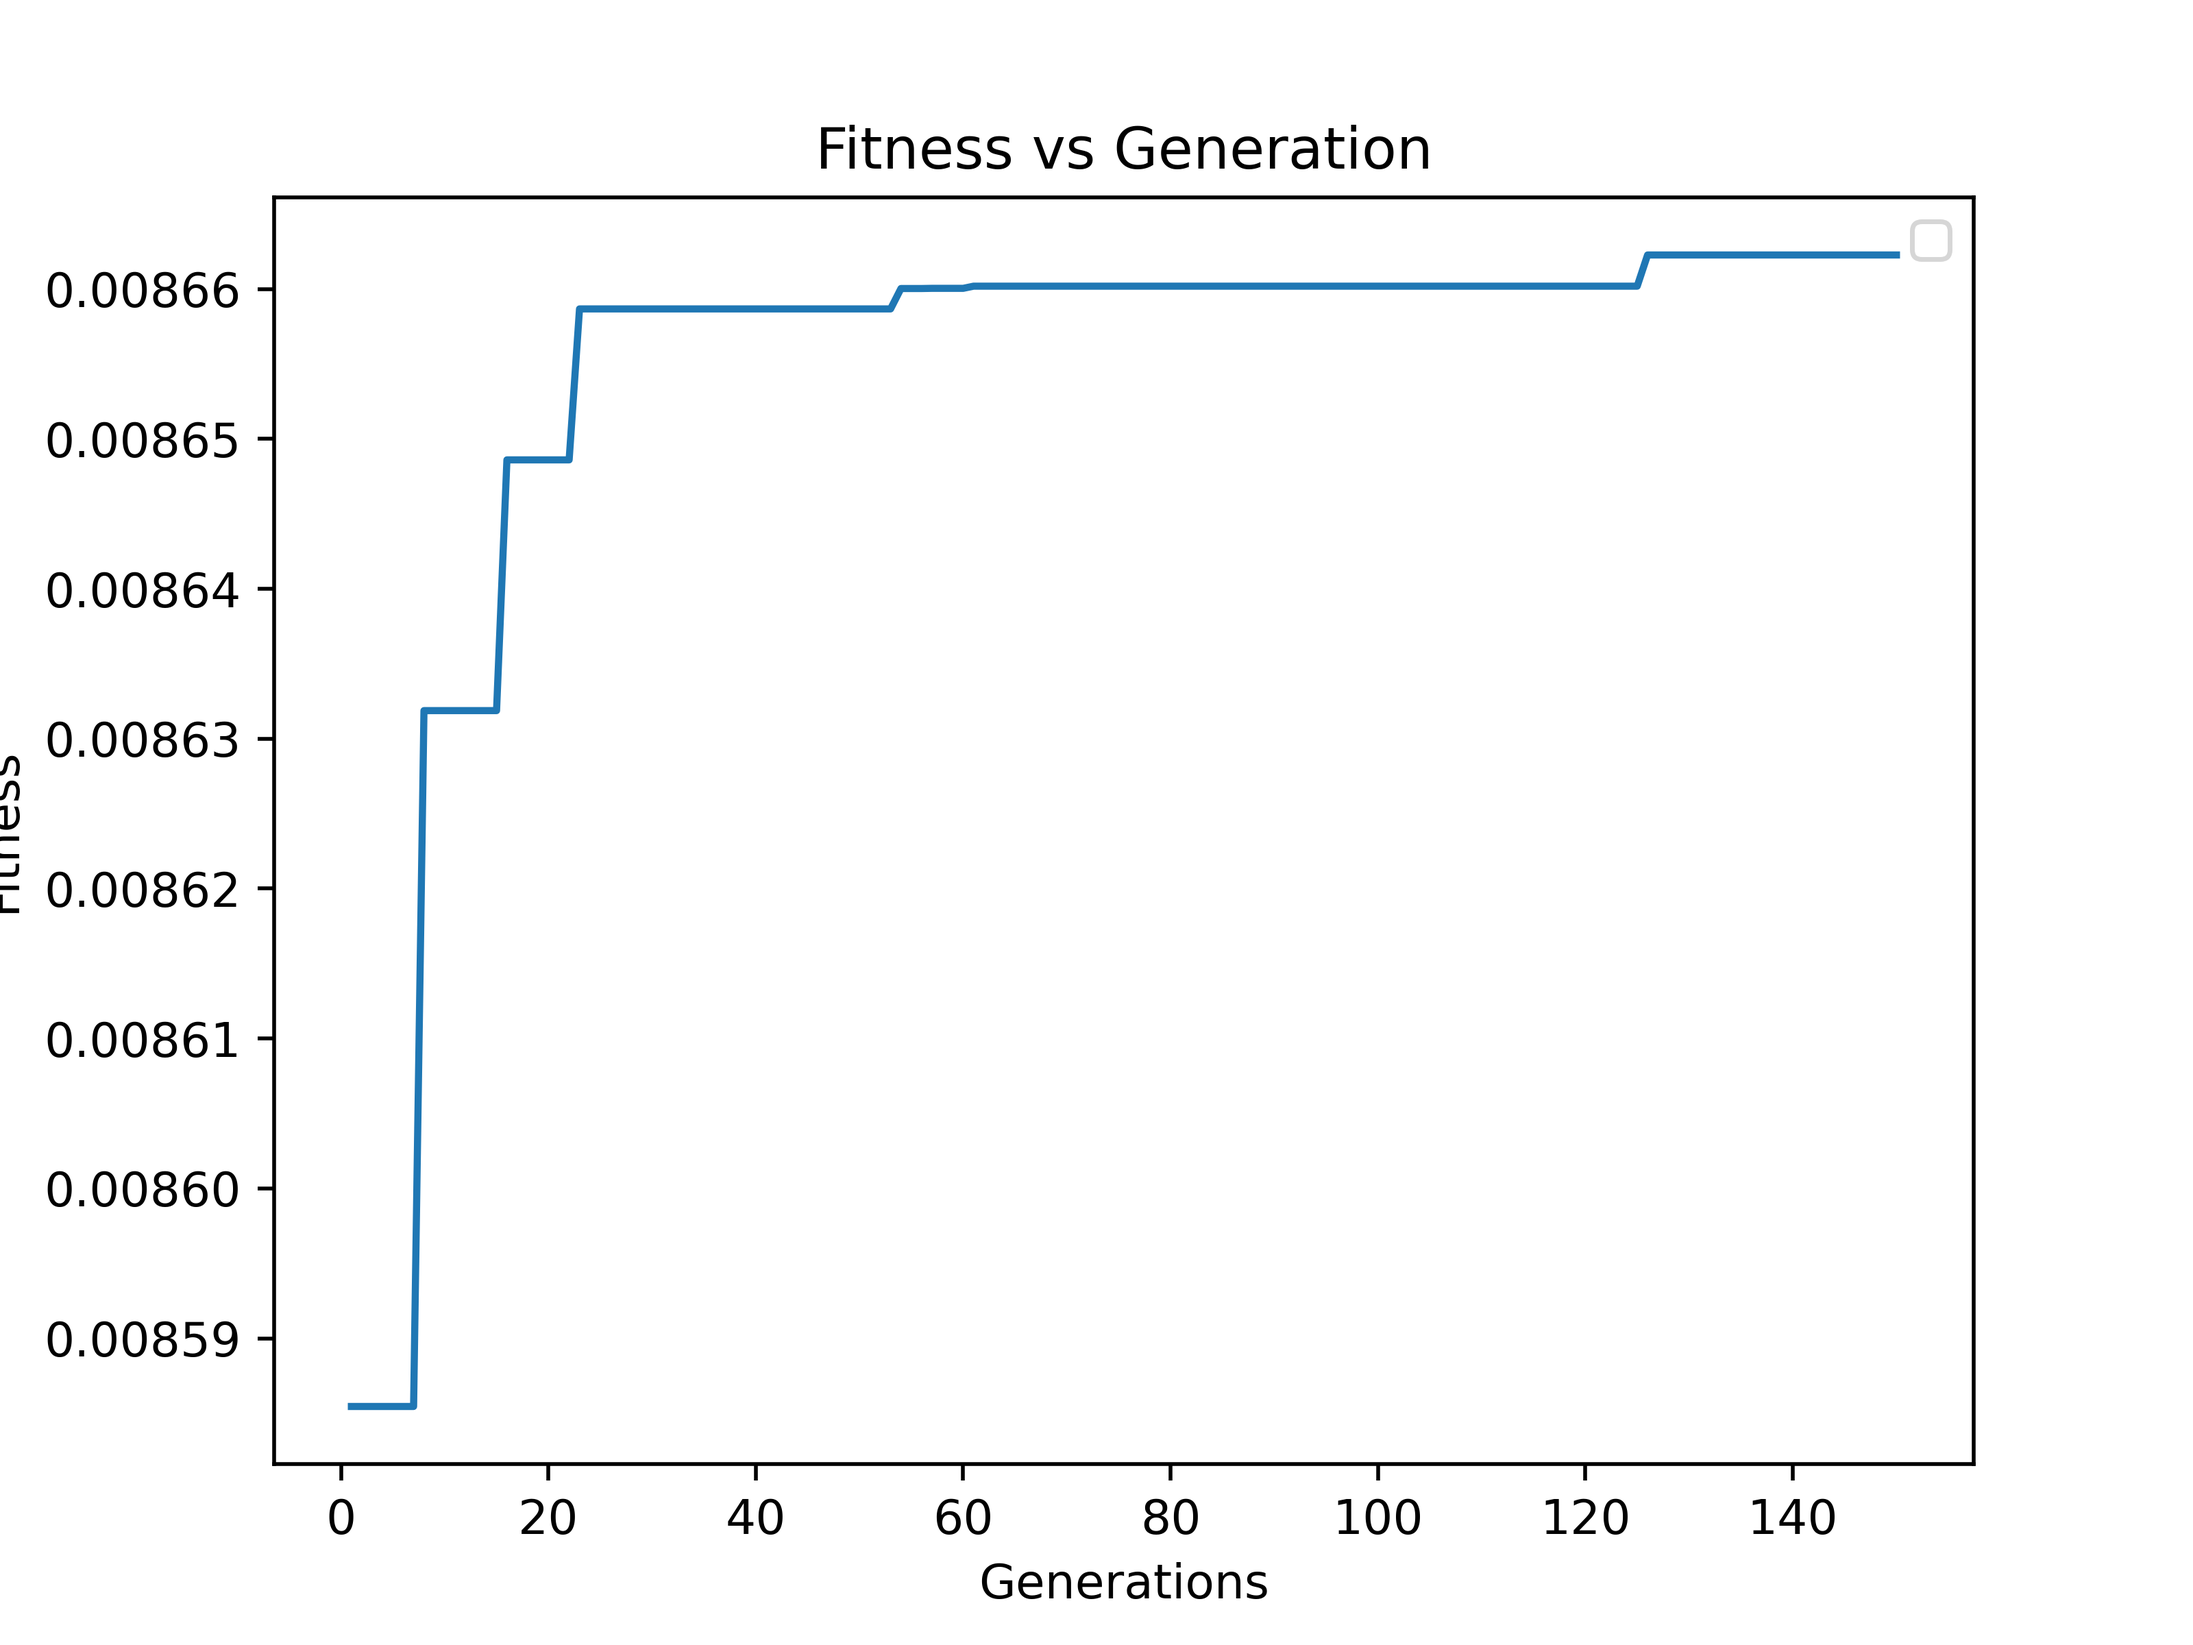
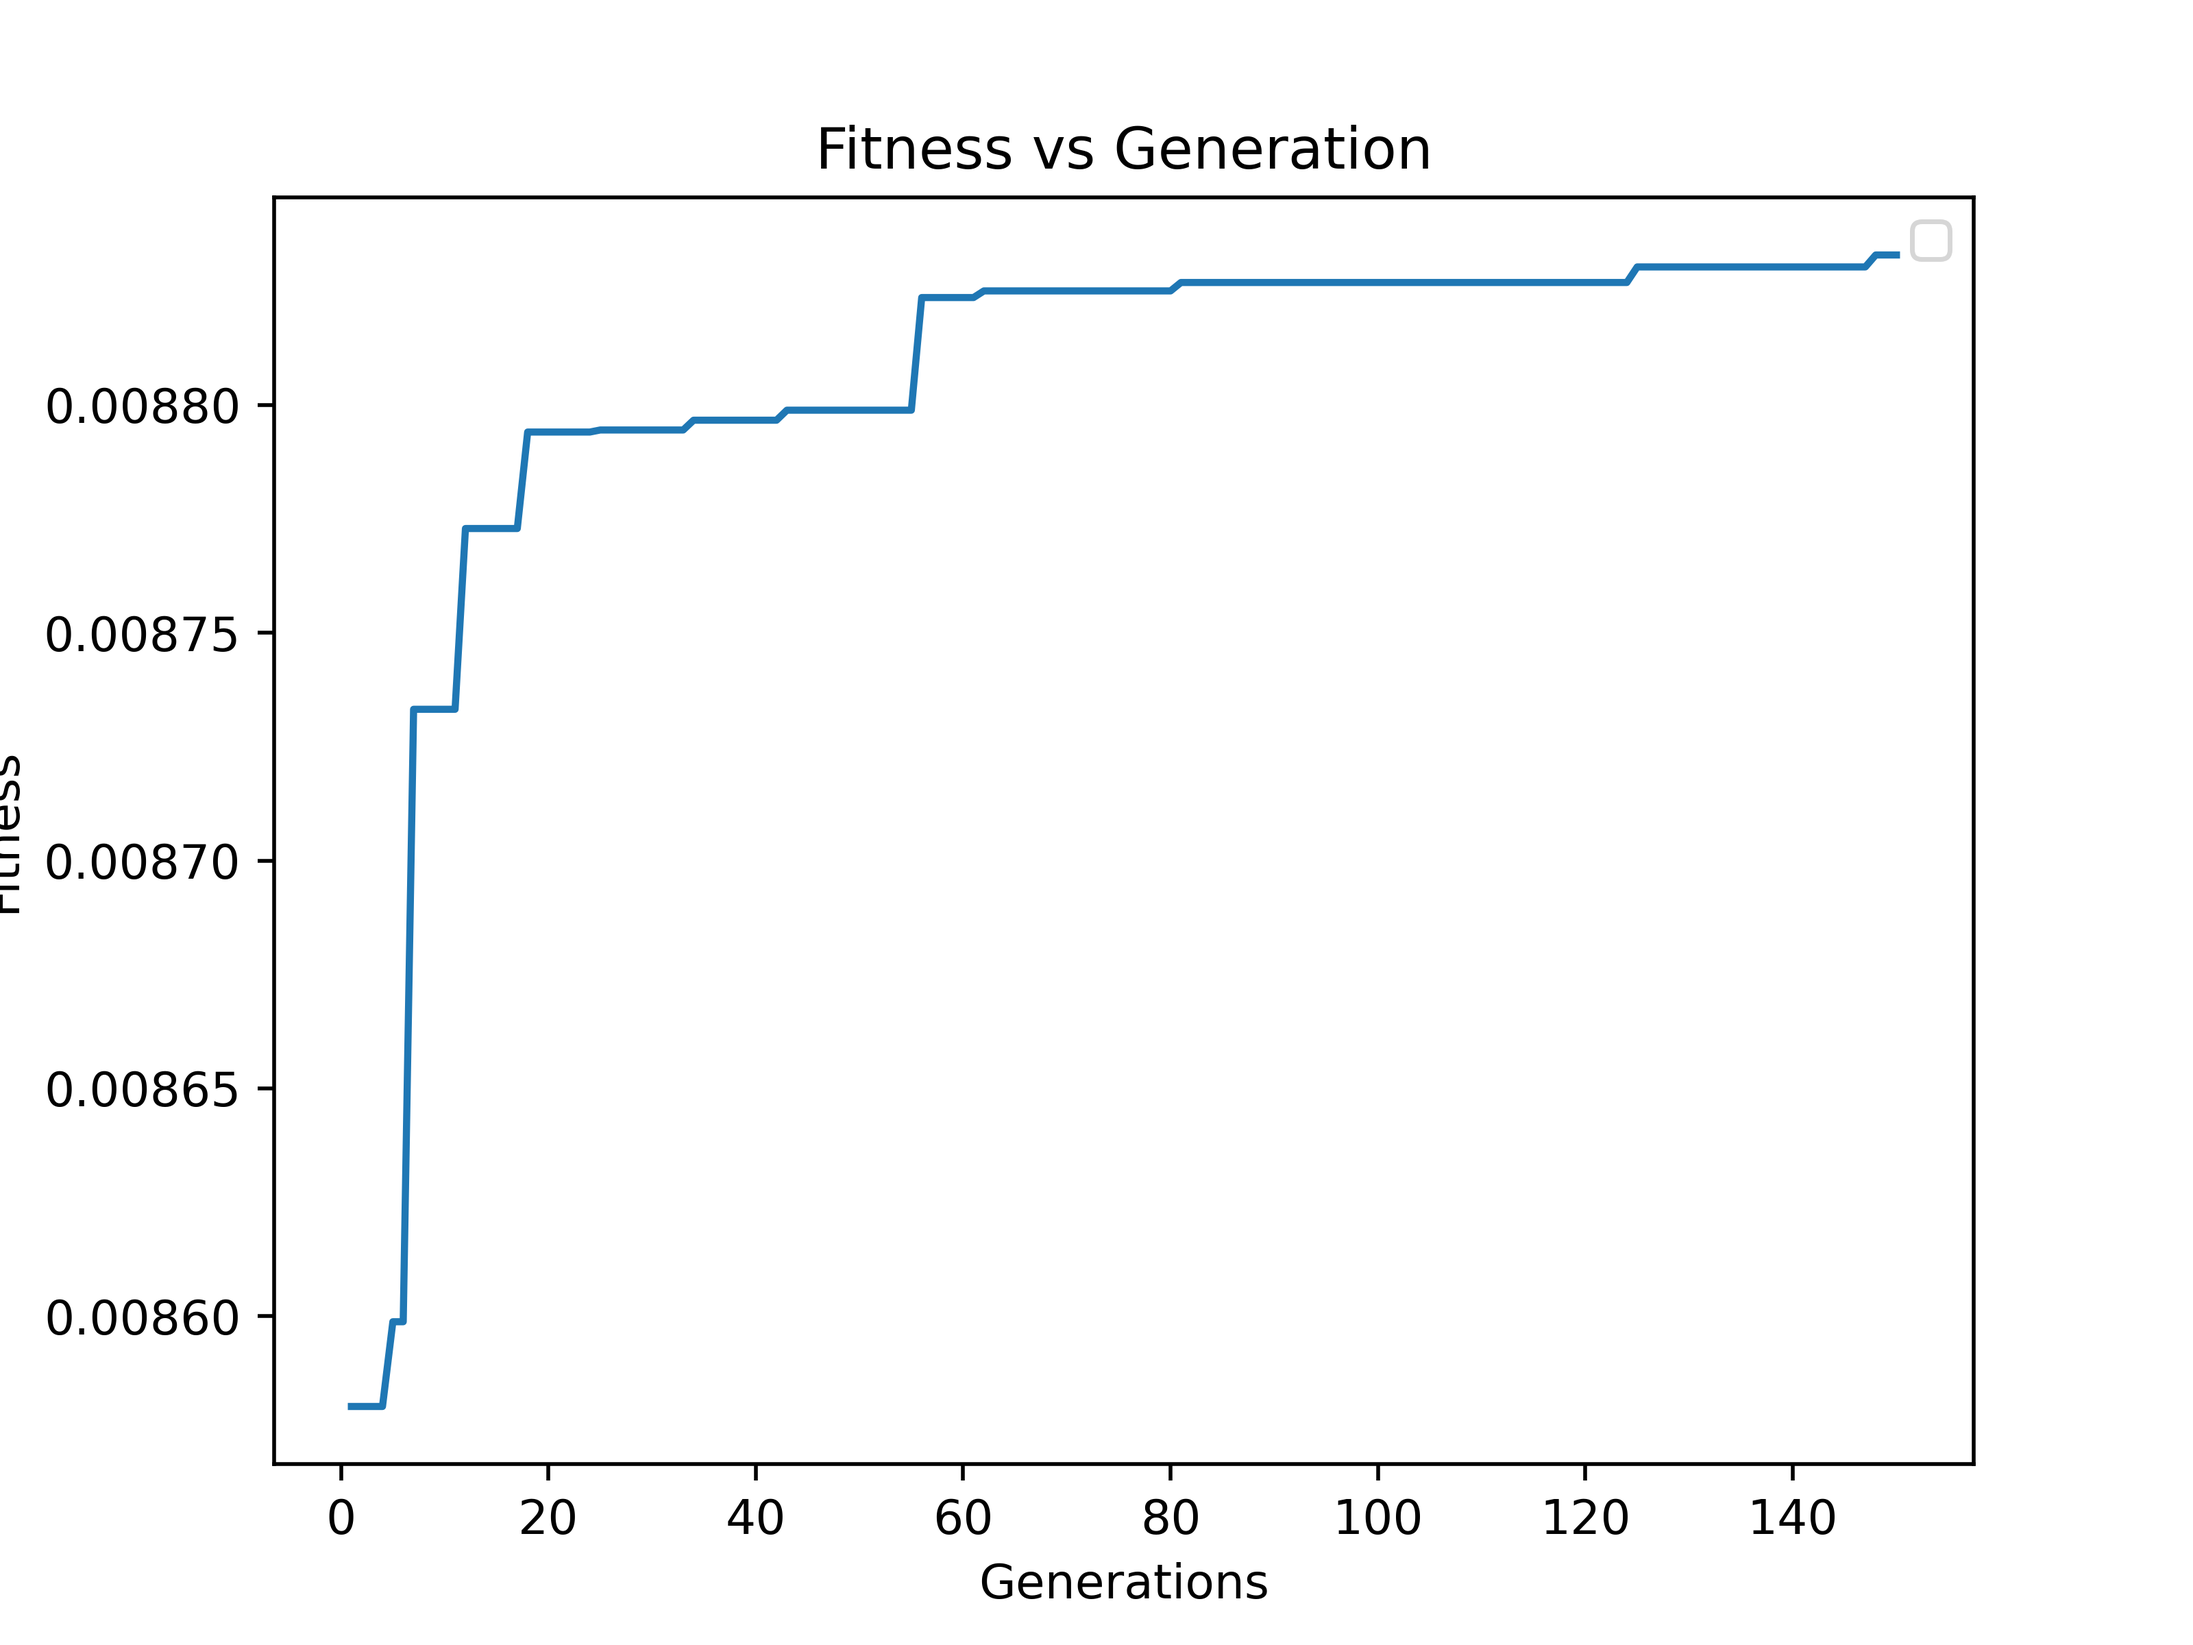
q1 edits

diff --git a/assignments/a3/q1/genetic_algorithm.py b/assignments/a3/q1/genetic_algorithm.py
@@ -21,11 +21,13 @@ def simulation(
         parents = parent_selection(population)
         children = mutation(crossover(parents))
         population = survivor_selection(children, population)
-        best_per_generation.append(best_of_generation(population))
+        best_fitness, best_individual = best_of_generation(population)
+        best_per_generation.append(best_fitness)
         end = time.time()
         if debug:
             print(
-                f'For gen: {i+1} fitness:{best_per_generation[-1]} took: {end-start}', flush=True)
+                f'For gen: {i+1} fitness:{best_per_generation[-1]} took: {end-start} s', flush=True)
+            print(f'best_individual:{best_individual}', flush=True)
 
     return best_per_generation
 
@@ -46,26 +48,32 @@ if __name__ == "__main__":
 
     def graph(title, data):
         for series in data:
-            print(series[1])
+            has_legend = False
             x = range(1, len(series[1])+1)
             y = series[1]
-            plt.plot(x, y, label=series[0])
+            if series[0] != '':
+                plt.plot(x, y)
+            else:
+                has_legend = True
+                plt.plot(x, y, label=series[0])
 
         plt.xlabel('Generations')
         plt.ylabel('Fitness')
+        if has_legend:
+            plt.legend()
         plt.title(title)
-        plt.legend()
 
         plt.savefig(title, dpi=500)
 
+    pid = ProportionalIntegralDifferentialGAS()
     if sys.argv[1] == '0':
         title = "Fitness vs Generation Count"
         data = []
         for i in range(3):
             generation_count = (i+1)*50
-            pid = ProportionalIntegralDifferentialGAS(
-                generation_count=generation_count)
-            data.append((generation_count, get_fitness(pid)))
+            pid.reset(generation_count=generation_count)
+            data.append(
+                (f'generation-count: {generation_count}', get_fitness(pid)))
         graph(title, data)
 
     elif sys.argv[1] == '1':
@@ -73,9 +81,9 @@ if __name__ == "__main__":
         data = []
         for i in range(3):
             population_size = (i+1)*25
-            pid = ProportionalIntegralDifferentialGAS(
-                population_size=population_size)
-            data.append((f'pop-size: {population_size}', get_fitness(pid)))
+            pid.reset(population_size=population_size)
+            data.append(
+                (f'pop-size: {population_size}', get_fitness(pid)))
         graph(title, data)
 
     elif sys.argv[1] == '2':
@@ -84,9 +92,9 @@ if __name__ == "__main__":
         for i in range(3):
             # 0.6 -> 0.9
             prob_crossover = 0.6+(i)*0.1
-            pid = ProportionalIntegralDifferentialGAS(
-                prob_crossover=prob_crossover)
-            data.append((f'p_c: {prob_crossover}', get_fitness(pid)))
+            pid.reset(prob_crossover=prob_crossover)
+            data.append(
+                (f'p_c: {prob_crossover}', get_fitness(pid)))
         graph(title, data)
 
     elif sys.argv[1] == '3':
@@ -95,9 +103,9 @@ if __name__ == "__main__":
         for i in range(3):
             # 0.3 -> 0.6
             prob_mutation = 0.3 + (i)*0.1
-            pid = ProportionalIntegralDifferentialGAS(
-                prob_mutation=prob_mutation)
-            data.append((f'p_m: {prob_mutation}', get_fitness(pid)))
+            pid.reset(prob_mutation=prob_mutation)
+            data.append(
+                (f'p_m: {prob_mutation}', get_fitness(pid)))
         graph(title, data)
 
     elif sys.argv[1] == '4':

diff --git a/assignments/a3/q1/pid_ga.py b/assignments/a3/q1/pid_ga.py
@@ -29,6 +29,17 @@ class ProportionalIntegralDifferentialGAS():
         self.survival_count = survival_count
         self.cache = {}
 
+    def reset(self, population_size=50, generation_count=150,
+              prob_crossover=0.6,
+              prob_mutation=0.25,
+              survival_count=2):
+        self.population_size = population_size
+        self.generation_count = generation_count
+        self.p_c = prob_crossover
+        self.p_m = prob_mutation
+        self.survival_count = survival_count
+        self.cache = {}
+
     def init_population(self):
 
         return [tuple(np.round(np.array([
@@ -45,12 +56,14 @@ class ProportionalIntegralDifferentialGAS():
 
     def mutation(self, individuals):
         for i, _ in enumerate(individuals):
-            if np.random.uniform() <= (self.p_m):
-                individuals[i] = tuple(np.round(np.array([
-                    np.random.uniform(low=k_p_lower, high=k_p_upper),
-                    np.random.uniform(low=T_I_lower, high=T_I_upper),
-                    np.random.uniform(low=T_D_lower, high=T_D_upper)
-                ]), 2))
+            genes = []
+            for k, gene in enumerate(individuals[i]):
+                if np.random.uniform() <= (self.p_m):
+                    genes.append(np.random.uniform(
+                        low=k_p_lower, high=k_p_upper))
+                else:
+                    genes.append(gene)
+            individuals[i] = tuple(np.round(np.array(genes), 2))
         return individuals
 
     def crossover(self, parents):
@@ -98,4 +111,4 @@ class ProportionalIntegralDifferentialGAS():
 
     def best_of_population(self, population):
         best_individual = max(population, key=self.fitness)
-        return self.fitness(best_individual)
+        return self.fitness(best_individual), best_individual

diff --git a/assignments/a3/q1/perffcn.py b/assignments/a3/q1/perffcn.py
@@ -2,18 +2,14 @@ from control import TransferFunction, feedback, step_info, step_response, series
 
 # Credit to Nick Shields for creating the python implementation of the matlab code
 
+t = [i/100 for i in range(0, 10000,)]
+
 
 def q1_perfFNC(Kp, Ti, Td):
     G = Kp * TransferFunction([Ti * Td, Ti, 1], [Ti, 0])
     F = TransferFunction(1, [1, 6, 11, 6, 0])
     sys = feedback(series(G, F), 1)
     sysinf = step_info(sys)
-
-    t = []
-    i = 0
-    while i < 100:
-        t.append(i)
-        i += 0.01
 
     T, y = step_response(sys, T=t)
 
